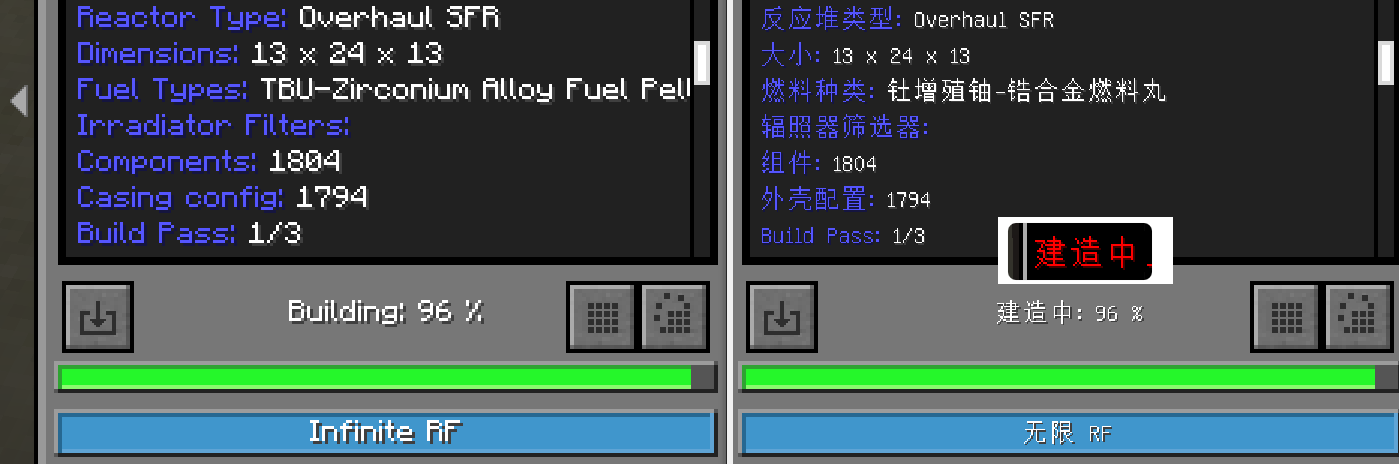
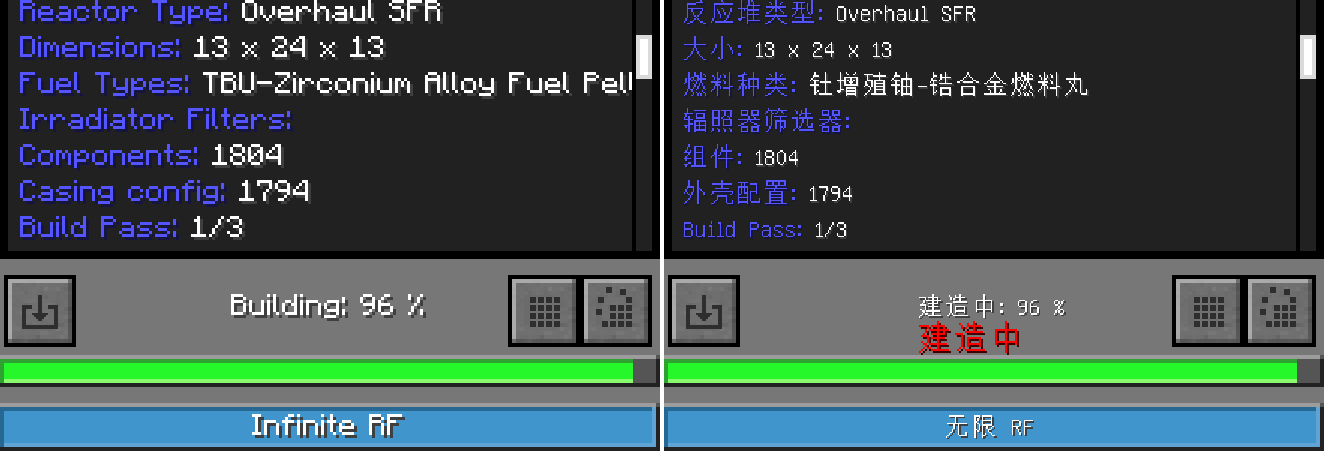
image optimize

diff --git a/技术/拒绝硬编码/Markdown_en.md b/技术/拒绝硬编码/Markdown_en.md
@@ -34,11 +34,7 @@ Example of hardcoding GUI texts:
 
 [*The One Probe*](https://www.curseforge.com/minecraft/mc-mods/the-one-probe)
 
-![](images/top_no_tool.png)
-
-![](images/top_pickaxe.png)
-
-![](images/top_waiting.png)
+![](images/top_untranslatable.png)
 
 **Solution:**
 
@@ -161,7 +157,7 @@ Examples not splitting Chinese texts correctly (the first line has no space, and
 
 [*Immersive Engineering*](https://www.curseforge.com/minecraft/mc-mods/immersive-engineering) (it splitted lines well, but with an overflowed amount of charcaters, it created a new line every time meeting a space)
 
-![](images/immeng_line_splitting.jpg)
+![](images/immeng_line_splitting.png) (fixed; sorry for unclear image; [something like this](https://github.com/BluSunrize/ImmersiveEngineering/commit/de5ccd69710603e857781be4a83a17b7d6e9d88b) caused crash in Japanese too)
 
 Example and solution of showing locked researches in [*Thaumcraft*](https://www.curseforge.com/minecraft/mc-mods/thaumcraft):
 
@@ -191,7 +187,7 @@ I guess this might happen when Unicode font is enabled, but I have not studied o
 
 Example of unclear characters:
 
-[*NuclearCraft Reactor Builder*](https://www.curseforge.com/minecraft/mc-mods/nuclearcraft-reactor-builder) (at the middle of the right there is the normal resolution on my device)
+[*NuclearCraft Reactor Builder*](https://www.curseforge.com/minecraft/mc-mods/nuclearcraft-reactor-builder) (with Chinese charatcers in the normal resolution on my device)
 
 ![](images/ncrb_resolution.png)
 
@@ -208,8 +204,6 @@ You can use `#PARSE_ESCAPES` in `.lang` files to get to [Java Properties](https:
 Example of not using UTF-8 and solution:
 
 [*Electroblob's Wizardry*](https://github.com/Electroblob77/Wizardry/pull/479)
-
-![](images/electroblob_utf.png)
 
 ## Add the ModID into Translation Keys
 
